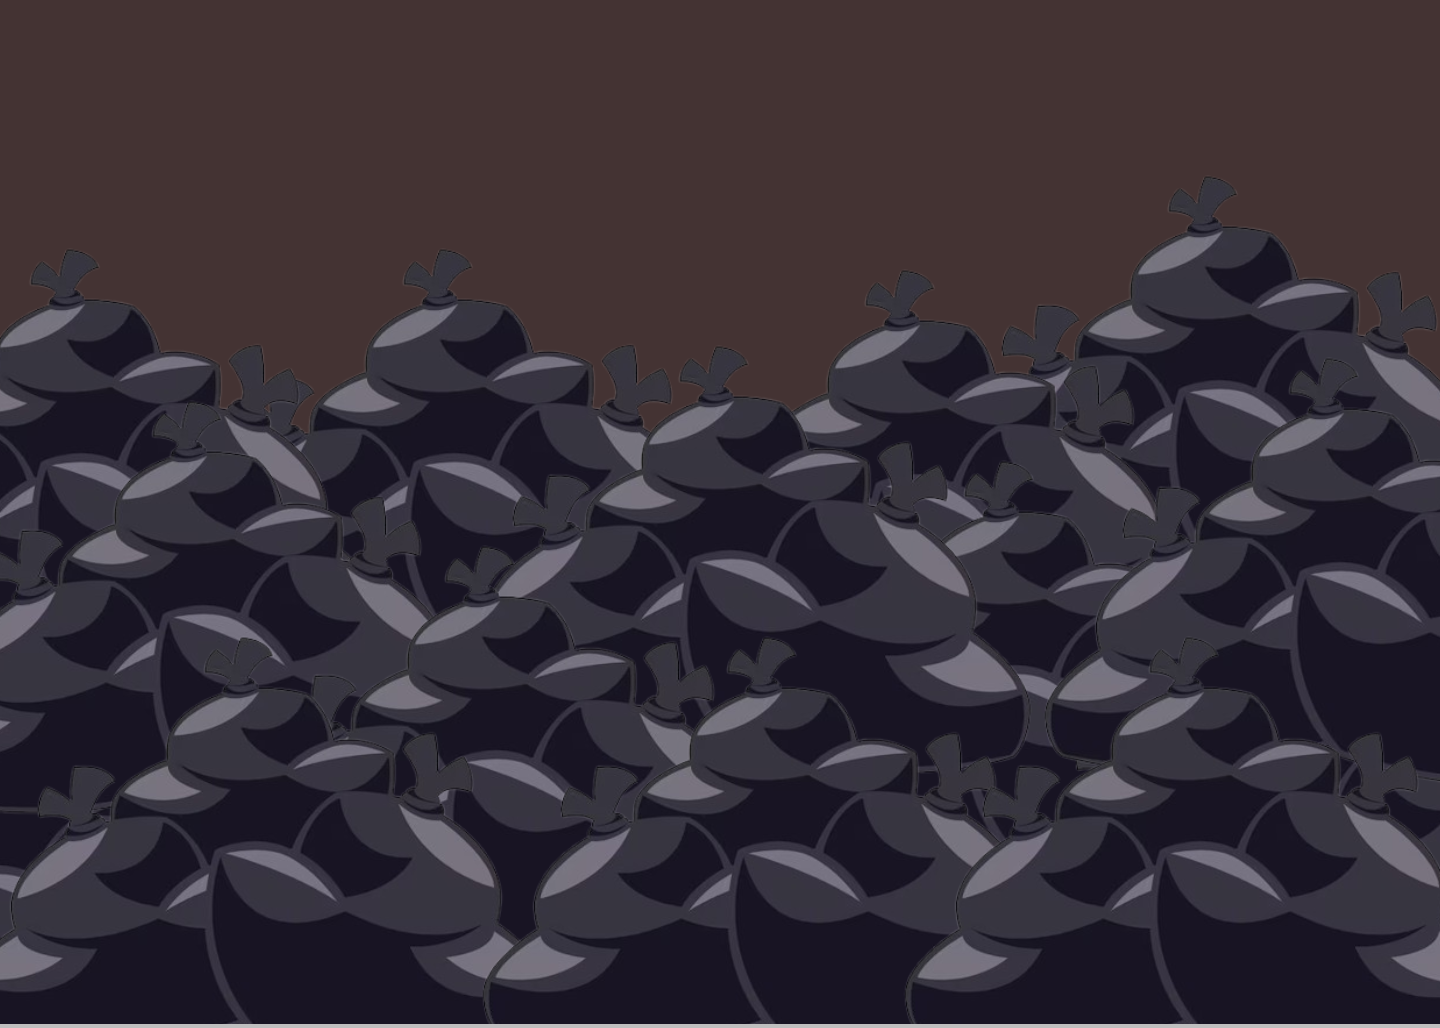
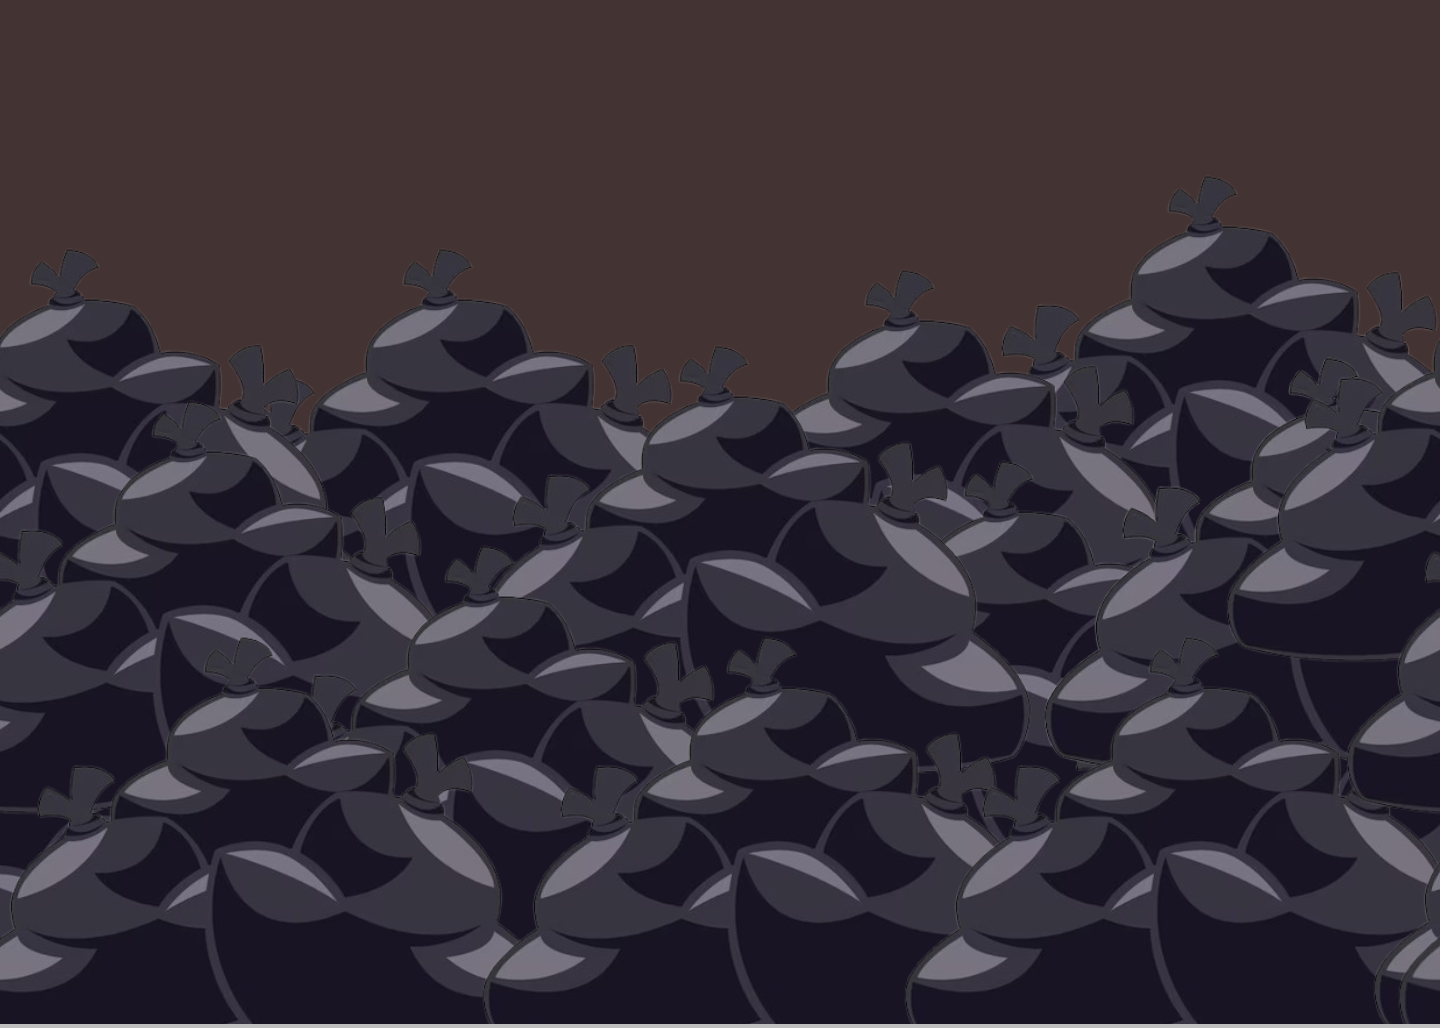
feat: adiciona o lixo na vp de pessoas e interliga com o minigame

Changed region(s): [[0.8438, 0.3735, 1.0, 0.8093], [0.9375, 0.9027, 1.0, 0.9961]]

diff --git a/src/minigameTrashScene.js b/src/minigameTrashScene.js
@@ -18,7 +18,7 @@ class MinigameTrashScene extends Phaser.Scene {
     }
 
     create() {
-        this.background = this.add.image(width / 2, height / 2, 'backgroundTrash'); // Adiciona a imagem de fundo ao centro da cena
+        this.background = this.add.tileSprite(0, 0, width, height, 'backgroundTrash').setOrigin(0, 0); // Adiciona a imagem de fundo ao centro da cena
 
         this.happiness = 0; // Inicializa a pontuação em 0
         this.vivinho = 0; // Contador de partes do vivinho
@@ -44,6 +44,14 @@ class MinigameTrashScene extends Phaser.Scene {
         this.progressBar = this.add.graphics();
         this.updateProgressBar(); // inicializa com progresso em 0
 
+        // Barra de progresso das partes do Vivinho
+        this.vivinhoBarBackground = this.add.graphics();
+        this.vivinhoBarBackground.fillStyle(0x808080, 1); // Fundo cinza
+        this.vivinhoBarBackground.fillRect(width - 1450, height - 690, 300, 30); // Barra logo abaixo da felicidade
+
+        this.vivinhoProgressBar = this.add.graphics();
+        this.updateVivinhoProgressBar(); // Inicializa com progresso 0
+
         this.physics.add.overlap(this.hand, this.smile, this.collectSmile, null, this); // Adiciona detecção de sobreposição entre a mão e as carinhas
 
         // Evento que gera lixo a cada 5 segundos
@@ -52,7 +60,15 @@ class MinigameTrashScene extends Phaser.Scene {
         callback: this.spawnRandomTrash,
         callbackScope: this,
         loop: true
-    });
+        });
+
+        // Evento que gera as partes do vivinho a cada 5 segundos
+        this.time.addEvent({
+            delay: 2500,
+            callback: this.spawnRandomVivinho,
+            callbackScope: this,
+            loop: true
+        });
 
         this.headSpawned = false;
         this.bodySpawned = false;
@@ -61,6 +77,12 @@ class MinigameTrashScene extends Phaser.Scene {
 
     update() {
         let movendo = false; // Inicializa a variável de movimento
+
+        if (this.vivinho === 3 && this.happiness === 5) {
+            this.time.delayedCall(200, () => {
+                this.scene.start('congratulationsMinigameScene');
+            });
+        }
 
         const movimentos = [
             { key: 'W', velocity: { x: 0, y: -300 }, angle: 270 },
@@ -91,6 +113,8 @@ class MinigameTrashScene extends Phaser.Scene {
             this.paper.destroy(); // Destroi o sprite do papel
             this.paper = null; // Define a variável paper como null
         }
+
+        this.background.tilePositionX += 0.5; // Controla a velocidade do movimento (pode ajustar o valor)
     }
 
     // Função para coletar a carinnha feliz
@@ -188,31 +212,29 @@ class MinigameTrashScene extends Phaser.Scene {
             this.head.setVisible(false);
             this.head.disableBody(true, true);
             this.vivinho += 1;
+            this.updateVivinhoProgressBar(); // <-- Atualiza a barra
         } else if (this.bodyCollected && part === this.body) {
             this.bodyCollected = false;
             this.body.setVisible(false);
             this.body.disableBody(true, true);
             this.vivinho += 1;
+            this.updateVivinhoProgressBar(); // <-- Atualiza a barra
         } else if (this.legsCollected && part === this.legs) {
             this.legsCollected = false;
             this.legs.setVisible(false);
             this.legs.disableBody(true, true);
             this.vivinho += 1;
+            this.updateVivinhoProgressBar(); // <-- Atualiza a barra
         }
     
         this.collected = this.sound.add('collectSound', { loop: false, volume: 10 });
         this.collected.play();
     
-        if (this.vivinho === 3) {
-            this.time.delayedCall(200, () => {
-                this.scene.start('congratulationsMinigameScene');
-            });
-        }
     }
 
     // Função para gerar lixo aleatório
     spawnRandomTrash() {
-        const randomTrash = Phaser.Math.Between(0, 5); // Gera um número aleatório entre 0 e 2 para decidir o tipo de lixo
+        const randomTrash = Phaser.Math.Between(0, 2); // Gera um número aleatório entre 0 e 2 para decidir o tipo de lixo
     
         switch (randomTrash) {
             case 0: // Caso o número seja 0
@@ -227,7 +249,13 @@ class MinigameTrashScene extends Phaser.Scene {
                 this.addPaper(); // Adiciona um papel à cena
                 this.physics.add.collider(this.hand, this.paper, this.crash, null, this); // Adiciona colisão entre a mão e o papel
                 break;
-            case 3:
+    }
+}
+    spawnRandomVivinho() {
+        const randomVivinho = Phaser.Math.Between(0, 2); // Gera um número aleatório entre 0 e 2 para decidir o tipo de lixo
+
+        switch(randomVivinho) {
+            case 0:
                 if (!this.headSpawned) {
                     this.addHead();
                     this.physics.add.overlap(this.hand, this.head, this.collectVivinho, null, this);
@@ -235,7 +263,7 @@ class MinigameTrashScene extends Phaser.Scene {
                     this.headSpawned = true;
                 }
                 break;
-            case 4:
+            case 1:
                 if (!this.bodySpawned) {
                     this.addBody();
                     this.physics.add.overlap(this.hand, this.body, this.collectVivinho, null, this);
@@ -243,7 +271,7 @@ class MinigameTrashScene extends Phaser.Scene {
                     this.bodySpawned = true;
                 }
                 break;
-            case 5:
+            case 2:
                 if (!this.legsSpawned) {
                     this.addLegs();
                     this.physics.add.overlap(this.hand, this.legs, this.collectVivinho, null, this);
@@ -253,17 +281,27 @@ class MinigameTrashScene extends Phaser.Scene {
                 break;
         }
     }
-    
 
     updateProgressBar() {
-        const max = 10; // Define o valor máximo de felicidade
+        const max = 5; // Define o valor máximo de felicidade
         const percentage = Phaser.Math.Clamp(this.happiness / max, 0, 1); // Calcula a porcentagem de felicidade, garantindo que esteja entre 0 e 1
         const barWidth = 300; // Define a largura da barra de progresso
         const barHeight = 30; // Define a altura da barra de progresso
 
         this.progressBar.clear(); // Limpa o gráfico da barra de progresso anterior
-        this.progressBar.fillStyle(0x88FF88, 1); // Define a cor da barra de progresso (verde)
+        this.progressBar.fillStyle(0xFED308, 1); // Define a cor da barra de progresso (amarelo)
         this.progressBar.fillRect(width - 1450, height - 730, barWidth * percentage, barHeight); // Desenha a barra de progresso com base na porcentagem de felicidade
+    }
+
+    updateVivinhoProgressBar() {
+        const maxParts = 3; // Cabeça, corpo e pernas
+        const percentage = Phaser.Math.Clamp(this.vivinho / maxParts, 0, 1);
+        const barWidth = 300;
+        const barHeight = 30;
+    
+        this.vivinhoProgressBar.clear();
+        this.vivinhoProgressBar.fillStyle(0x670099, 1); // Define a cor da barra de progresso (roxo)
+        this.vivinhoProgressBar.fillRect(width - 1450, height - 690, barWidth * percentage, barHeight);
     }
 }
 
@@ -336,11 +374,21 @@ class CongratulationsMinigameScene extends Phaser.Scene {
     preload() {
         this.load.image('congratulation', '../assets/assetsTrash/parabens.png');
         this.load.image('vivinhoComplete', '../assets/assetsTrash/moldura.png');
+        this.load.image('buttonBack', '../assets/assetsTrash/buttonBack.png');
+        this.load.image('background', '../assets/assetsTrash/mapaVPPessoas.png');
+        this.load.audio('buttonSound', '../assets/sounds/687107__aphom000__mouse-2-button-fast-click.wav');
     }
 
     create() {
+        this.add.image(width / 2, height - 355, 'background').setScale(2.5);
         this.addCongratulation();
         this.addVivinhoComplete();
+        this.createButtonBack();
+    }
+
+    buttonSound() {
+        this.buttonClick = this.sound.add('buttonSound', {loop: false, volume: 10});
+        this.buttonClick.play();
     }
 
     addCongratulation() {
@@ -363,6 +411,16 @@ class CongratulationsMinigameScene extends Phaser.Scene {
             angle: 360, // Adiciona rotação completa
             duration: 1000,
             ease: 'Bounce.easeOut'
+        });
+    }
+
+    createButtonBack() {
+        const buttonBack = this.add.image(width / 2, height - 80, 'buttonBack');
+        buttonBack.setInteractive();
+        buttonBack.setScale(0.7);
+        buttonBack.on('pointerdown', () => {
+            this.buttonSound();
+            this.scene.switch('vpPessoasScene');
         });
     }
 }

diff --git a/src/vpPessoasScene.js b/src/vpPessoasScene.js
@@ -7,14 +7,16 @@ class VpPessoasScene extends Phaser.Scene {
         // Carrega o mapa do Tiled e os tilesets
         this.load.tilemapTiledJSON('vpPessoas', '../assets/mapaVPPessoas/mapaVPPessoas.json');
         this.load.image('decoracao', '../assets/mapaVPPessoas/decoracao.png');
-        this.load.image('paredes', '../assets/mapaVPPessoas/paredes.png');
+        this.load.image('paredes', '../assets/mapaVPPessoas/paredes.png');    
 
         // Carrega imagens, spritesheets e demais ativos
         this.load.spritesheet('player', '../assets/Player.png', { frameWidth: 32, frameHeight: 32 });
 
         // Carrega os efeitos sonoros
         this.load.audio('walkSound', '../assets/sounds/753292__vrymaa__footsteps-high-heels-hardwood-walk-run (mp3cut.net).wav');
-        this.load.audio('PessoasMusic', '../assets/sounds/VPpessoas.mp3')
+        this.load.audio('PessoasMusic', '../assets/sounds/VPpessoas.mp3');
+
+        this.load.spritesheet('trash', '../assets/trash.png', {frameWidth: 267, frameHeight: 343});
     }
 
     create() {
@@ -42,9 +44,9 @@ class VpPessoasScene extends Phaser.Scene {
         });
 
         // Cria e inicia a música; se houver um tempo salvo, retoma a partir dele
-      const startTime = VpPessoasScene.lastMusicTime || 0;
-      this.PessoasMusic = this.sound.add("PessoasMusic", { loop: true });
-      this.PessoasMusic.play({ seek: startTime });
+        const startTime = VpPessoasScene.lastMusicTime || 0;
+        this.PessoasMusic = this.sound.add("PessoasMusic", { loop: true });
+        this.PessoasMusic.play({ seek: startTime });
 
         // Configuração do teclado
         this.teclas = this.input.keyboard.addKeys({
@@ -70,10 +72,27 @@ class VpPessoasScene extends Phaser.Scene {
 
         // Adiciona os efeitos sonoros
         this.walkSound = this.sound.add('walkSound', {loop: false, volume: 10});
+
+        this.createTrash();
     }
 
-    update(){
-        this.movePlayer();
+    update() {
+      this.movePlayer();
+    
+      // Verifica distância para ativar/desativar a possibilidade de interação
+      if (this.trash) {
+        const dist = Phaser.Math.Distance.Between(
+          this.player.x, this.player.y,
+          this.trash.x, this.trash.y
+        );
+        this.canInteractWithTrash = dist < 50; // ajuste a distância conforme necessário
+      }
+    
+      if (this.canInteractWithTrash && Phaser.Input.Keyboard.JustDown(this.teclas.interagir)) {
+        this.buttonClick = this.sound.add('buttonSound', {loop: false, volume: 10});
+        this.buttonClick.play();
+        this.scene.switch('minigameTrashScene');
+      }
     }
 
     movePlayer() {
@@ -154,6 +173,20 @@ class VpPessoasScene extends Phaser.Scene {
           VpPessoasScene.lastMusicTime = this.PessoasMusic.seek;
           this.PessoasMusic.stop();
         }
+      }
+
+      createTrash() {
+        const trash = this.physics.add.sprite(width - 735, height - 570, 'trash');
+        trash.setScale(0.1);
+        trash.setImmovable(true);
+      
+        // Apenas overlap é necessário para ativar a possibilidade de interação
+        this.physics.add.overlap(this.player, trash, () => {
+          this.canInteractWithTrash = true;
+        });
+      
+        // Detectar quando sai da zona de interação (usando evento de update com verificação de distância)
+        this.trash = trash; // Salva o objeto para usar no update
       }
 }
 

diff --git a/src/initialScene.js b/src/initialScene.js
@@ -76,7 +76,7 @@ class InitialScene extends Phaser.Scene {
             this.buttonSound();
             this.shutdown();
             this.scene.stop('initialScene');
-            this.scene.start('minigameTrashScene');
+            this.scene.start('vpPessoasScene');
         });
     }
 
